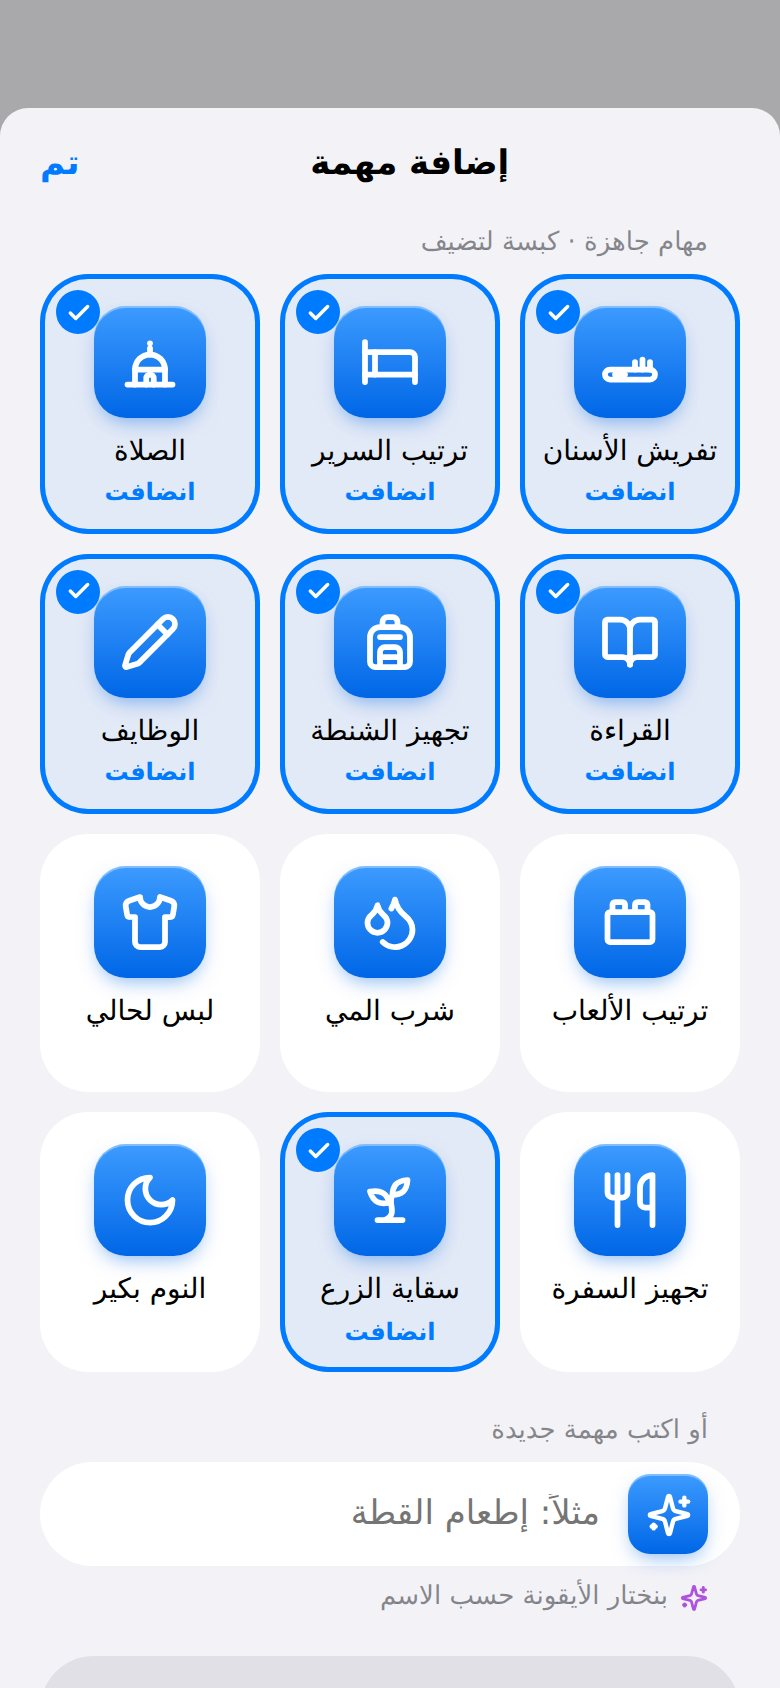
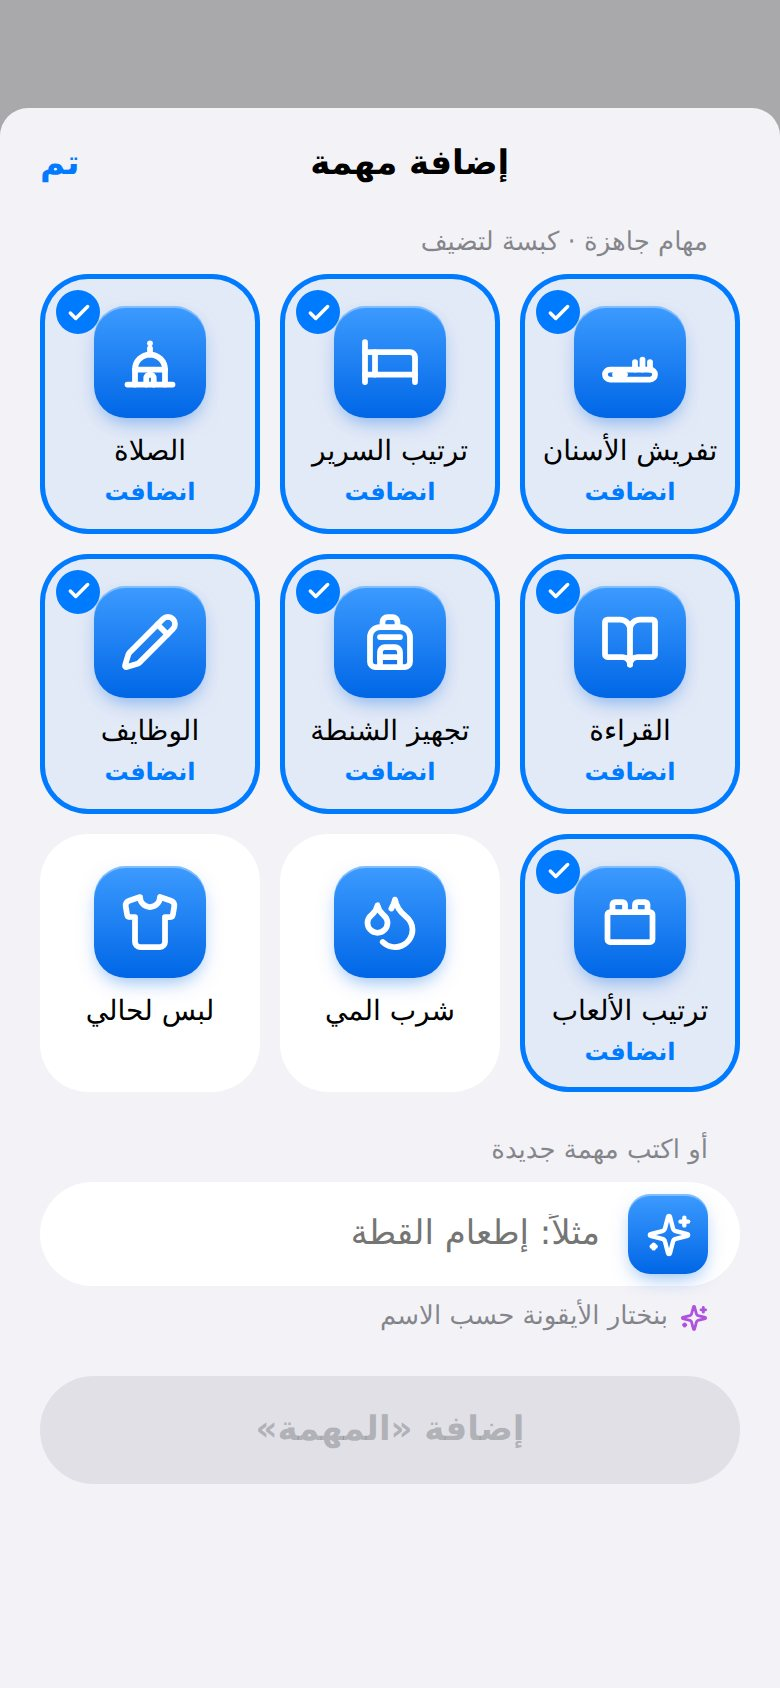
Task setup: reward wording, riyal sign, free-text goal, 9 ready tasks
- 'مكافأة كل مهمة' replaces 'how much is it worth'.
- Currency follows the phone's region, no picker; Saudi riyal shows the
  official new sign (Saudi-Riyal-Font, OFL).
- The goal screen is a single field: write the goal as the child says it,
  the icon is picked from the words, then the amount and estimate.
- The add-task sheet shows at most 9 ready-made tasks so writing a new
  one stays in view.
- docs/screens and DESIGN.md updated.

Claude-Session: https://claude.ai/code/session_01RDAVNZzgeCwRhwwmPPkyYB

diff --git a/prototype/screens/02-tasks-setup.html b/prototype/screens/02-tasks-setup.html
@@ -171,6 +171,10 @@ input::-webkit-outer-spin-button,input::-webkit-inner-spin-button{-webkit-appear
 .namerow{margin-top:14px;background:#fff;border-radius:26px;display:flex;align-items:center;padding:0 16px;min-height:52px}
 .namerow label{width:80px;font-size:17px}
 .namerow .glyph{margin-inline-start:10px}
+.goalfield{margin-top:24px;gap:12px}
+.goalfield .glyph{margin:0}
+.riyal{width:.95em;height:.95em;vertical-align:-.12em;display:inline-block}
+.bigsym .riyal{width:26px;height:26px;vertical-align:-3px}
 .autonote{font-size:13px;color:var(--label-2);padding:8px 16px 0;display:flex;align-items:center;gap:6px}
 .autonote svg{width:14px;height:14px;color:var(--purple,#AF52DE)}
 .namerow input{flex:1;height:52px;border:0;outline:none;background:none;font:17px var(--font)}
@@ -428,10 +432,13 @@ const CURRENCIES=[
   {c:'CAD',n:'دولار كندي',s:'C$'},{c:'AUD',n:'دولار أسترالي',s:'A$'},{c:'CHF',n:'فرنك سويسري',s:'CHF'},
   {c:'SEK',n:'كرونة سويدية',s:'kr'},{c:'MYR',n:'رينغيت ماليزي',s:'RM'},{c:'PKR',n:'روبية باكستانية',s:'₨'},{c:'INR',n:'روبية هندية',s:'₹'},
 ];
-let currency='SAR';   // in the app: from the device region (Locale.current.currency), changeable here and in Settings
+let currency='SAR';   // from the device region (Locale.current.currency); no picker needed
 const CUR=()=>CURRENCIES.find(x=>x.c===currency);
 const fmt=n=>(Math.round(n*100)/100).toString();
-const money=(n,cls='')=>`<span class="money ${cls}">${fmt(n)} <span class="sym">${esc(CUR().s)}</span></span>`;
+/* official Saudi riyal sign (Saudi-Riyal-Font, SIL OFL 1.1) */
+const RIYAL=`<svg class="riyal" viewBox="0 0 1256 1256" aria-label="ريال" role="img"><path fill="currentColor" d="M0,0M750,1119 C730,1163,716,1211,711,1262 C711,1262,1136,1172,1136,1172 C1156,1127,1169,1079,1174,1028 C1174,1028,750,1119,750,1119Z M1136,901 C1136,901,1136,901,1136,901 C1156,857,1169,809,1174,758 C1174,758,843,828,843,828 C843,828,843,693,843,693 C843,693,1136,631,1136,631 C1156,587,1169,538,1174,488 C1174,488,843,558,843,558 C843,558,843,72,843,72 C793,100,748,138,711,183 C711,183,711,586,711,586 C711,586,579,614,579,614 C579,614,579,6,579,6 C528,34,483,72,447,117 C447,117,447,642,447,642 C447,642,151,705,151,705 C131,750,117,798,112,849 C112,849,447,777,447,777 C447,777,447,948,447,948 C447,948,88,1024,88,1024 C68,1068,55,1117,50,1167 C50,1167,425,1088,425,1088 C456,1081,482,1063,499,1038 C499,1038,568,936,568,936 C568,936,568,936,568,936 C575,926,579,913,579,899 C579,899,579,749,579,749 C579,749,711,721,711,721 C711,721,711,992,711,992 C711,992,1136,901,1136,901Z "/></svg>`;
+const SYM=()=>currency==='SAR'?RIYAL:esc(CUR().s);
+const money=(n,cls='')=>`<span class="money ${cls}">${fmt(n)} <span class="sym">${SYM()}</span></span>`;
 const DAYS=['سبت','أحد','اثنين','ثلاثاء','أربعاء','خميس','جمعة'];
 const SCHOOL=[1,1,1,1,1,0,0].map(Boolean), EVERY=Array(7).fill(true);
 
@@ -471,29 +478,26 @@ function tasksScreen(i){
 function valuesScreen(i){
   const k=kids[i];
   return `${nav(i)}
-    <h1>كل مهمة قديش بتسوى؟</h1>
+    <h1>مكافأة كل مهمة</h1>
     <div class="sub">هاد المبلغ بينزل بمكمورة ${esc(k.name)} لما توافق على المهمة.</div>
-    <button class="curchip" data-currency><span>العملة</span><b>${esc(CUR().n)}</b><span class="cs">${esc(CUR().s)}</span>${ic('chev',2.6)}</button>
     <div class="group">${k.tasks.map((t,n)=>`<div class="row">${glyph(t.icon,t.c,'sm')}
       <button class="t" data-days="${n}" style="text-align:start"><b>${esc(t.name)}</b><span>${daysLabel(t.days)}</span></button>
-      <span class="stepper"><button data-val="${n}" data-d="-1" aria-label="أقل">${ic('minus',2.6)}</button><span class="v"><input type="number" inputmode="decimal" min="0" max="9999" step="any" value="${fmt(t.value)}" data-valin="${n}" aria-label="قيمة ${esc(t.name)}"><span class="sym">${esc(CUR().s)}</span></span><button data-val="${n}" data-d="1" aria-label="أكتر">${ic('plus',2.6)}</button></span></div>`).join('')}</div>
-    <div class="total">بيقدر يجمع لحد <b><span id="perday">${fmt(perDay(k))}</span> ${esc(CUR().s)}</b> باليوم</div>
+      <span class="stepper"><button data-val="${n}" data-d="-1" aria-label="أقل">${ic('minus',2.6)}</button><span class="v"><input type="number" inputmode="decimal" min="0" max="9999" step="any" value="${fmt(t.value)}" data-valin="${n}" aria-label="قيمة ${esc(t.name)}"><span class="sym">${SYM()}</span></span><button data-val="${n}" data-d="1" aria-label="أكتر">${ic('plus',2.6)}</button></span></div>`).join('')}</div>
+    <div class="total">بيقدر يجمع لحد <b><span id="perday">${fmt(perDay(k))}</span> ${SYM()}</b> باليوم</div>
     <div class="bottom"><button class="btn filled" data-next>التالي</button></div>`;
 }
 function goalScreen(i){
   const k=kids[i], g=k.goal;
   return `${nav(i)}
-    <h1>شو بيحلم ${esc(k.name)}؟</h1>
-    <div class="sub">هدف يجمعله. اسأله، وخلّيه يختار معك.</div>
-    <div class="goals">${GOALS.map(o=>`<button class="pick" aria-pressed="${g&&g.id===o.id}" data-goal="${o.id}"><span class="ok">${ic('check',3.2)}</span>${glyph(o.icon,o.c)}${o.name}</button>`).join('')}
-      <button class="pick new" aria-pressed="${g&&g.id==='custom'}" data-goal="custom"><span class="ok">${ic('check',3.2)}</span>${glyph('plus',C.blue)}شي تاني</button></div>
-    ${g?`<div class="namerow"><label for="gname">الهدف</label><input id="gname" value="${esc(g.name)}" placeholder="مثلاً: بلاي ستيشن" data-gname autocomplete="off"><span id="gicon">${glyph(g.icon,g.c,'sm')}</span></div>
-      ${g.id==='custom'?`<div class="autonote">${ic('sparkles')}بنختار الأيقونة حسب الاسم</div>`:''}
-      <div class="amount"><span class="lbl">بيحتاج يجمع</span>
-        <div class="big"><button data-amt="-10" aria-label="أقل">${ic('minus',2.6)}</button><span class="n"><input type="number" inputmode="decimal" min="1" max="999999" step="any" value="${fmt(g.amount)}" id="gamount" aria-label="قديش بيحتاج"><span class="bigsym">${esc(CUR().s)}</span></span><button data-amt="10" aria-label="أكتر">${ic('plus',2.6)}</button></div>
+    <h1>هدف ${esc(k.name)}</h1>
+    <div class="sub">شي بيطمح يوصله. اكتبه متل ما بيحكيه ${esc(k.name)}.</div>
+    <div class="namerow goalfield"><span id="gicon">${glyph(g?g.icon:'gift',TASK,'sm')}</span><input id="gname" value="${esc(g?g.name:'')}" placeholder="مثلاً: بلاي ستيشن، دراجة، رحلة…" data-gname autocomplete="off"></div>
+    <div class="autonote">${ic('sparkles')}بنختار الأيقونة حسب الاسم</div>
+    ${g&&g.name.trim()?`<div class="amount"><span class="lbl">بيحتاج يجمع</span>
+        <div class="big"><button data-amt="-10" aria-label="أقل">${ic('minus',2.6)}</button><span class="n"><input type="number" inputmode="decimal" min="1" max="999999" step="any" value="${fmt(g.amount)}" id="gamount" aria-label="قديش بيحتاج"><span class="bigsym">${SYM()}</span></span><button data-amt="10" aria-label="أكتر">${ic('plus',2.6)}</button></div>
         <span class="eta" id="eta">${etaText(k)}</span></div>`:''}
-    <div class="bottom"><button class="btn filled" data-next ${g&&!g.name.trim()?'disabled':''}>${!g?'تخطّى هلأ':i<kids.length-1?`التالي: ${esc(kids[i+1].name)}`:'خلصنا'}</button>
-      ${g?'':'<div class="hint">فيك تحدده بعدين مع '+esc(k.name)+'</div>'}</div>`;
+    <div class="bottom"><button class="btn filled" data-next>${!(g&&g.name.trim())?'تخطّى هلأ':i<kids.length-1?`التالي: ${esc(kids[i+1].name)}`:'خلصنا'}</button>
+      ${g&&g.name.trim()?'':'<div class="hint">فيك تحدده بعدين مع '+esc(k.name)+'</div>'}</div>`;
 }
 function etaText(k){ const d=Math.ceil(k.goal.amount/Math.max(1,perDay(k))); return perDay(k)?`إذا خلّص كل مهامه، بيوصل خلال <b>${d} ${d>2&&d<11?'أيام':'يوم'}</b> تقريباً`:'ما في مهام عليها نقاط لسا'; }
 function readyScreen(){
@@ -505,8 +509,8 @@ function readyScreen(){
       <header>${kav(k,'big')}<div class="hn"><b>${esc(k.name)}</b><span>${k.age} ${k.age>10?'سنة':'سنين'} · ${k.tasks.length} مهام باليوم</span></div>
         ${approved?`<span class="ok-badge">${ic('check',3)}معتمد</span>`:`<button class="edit" data-edit="${kids.indexOf(k)}">تعديل</button>`}</header>
       <ul>${k.tasks.map(t=>`<li>${glyph(t.icon,t.c,'sm')}<span class="tn">${esc(t.name)}</span><span class="pts">${money(t.value)}</span></li>`).join('')}</ul>
-      ${k.goal?`<div class="dream">${glyph(k.goal.icon,k.goal.c,'sm')}<div><b>بيحلم بـ${esc(k.goal.name||'هدفه')}</b><span>${fmt(k.goal.amount)} ${esc(CUR().s)} · تقريباً ${d} ${d>2&&d<11?'أيام':'يوم'}</span></div></div>`
-        :`<div class="dream muted"><div><b>لسا ما في حلم</b><span>حدّدوه سوا من الصفحة الرئيسية</span></div></div>`}
+      ${k.goal?`<div class="dream">${glyph(k.goal.icon,k.goal.c,'sm')}<div><b>هدفه: ${esc(k.goal.name||'')}</b><span>${fmt(k.goal.amount)} ${SYM()} · تقريباً ${d} ${d>2&&d<11?'أيام':'يوم'}</span></div></div>`
+        :`<div class="dream muted"><div><b>لسا ما في هدف</b><span>حدّدوه سوا من الصفحة الرئيسية</span></div></div>`}
     </article>`}).join('')}
     <div class="bottom">${approved?`<button class="btn filled">للصفحة الرئيسية</button>`:`<button class="btn filled" data-approve>اعتماد المهام</button><div class="hint">بتقدر تعدّل أي شي بعدين من الإعدادات</div>`}</div>`;
 }
@@ -523,9 +527,9 @@ function previewScreen(){
     ${kids.length>1?`<div class="kidseg">${kids.map((x,n)=>`<button aria-pressed="${n===pk}" data-pk="${n}">${kav(x)}${esc(x.name)}</button>`).join('')}</div>`:''}
     <div class="kidphone">
       <div class="kp-head">${kav(k,'big')}<div><span>صباح الخير</span><b>${esc(k.name)}</b></div></div>
-      ${g?`<div class="kp-dream"><div class="kp-dt">${glyph(g.icon,g.c,'sm')}<div><span>حلمي</span><b>${esc(g.name)}</b></div></div>
+      ${g?`<div class="kp-dream"><div class="kp-dt">${glyph(g.icon,g.c,'sm')}<div><span>هدفي</span><b>${esc(g.name)}</b></div></div>
         <div class="kp-bar"><i style="--w:${pct*100}%"></i></div>
-        <div class="kp-note">إذا خلّص كل مهامه، بعد أسبوع بيكون عنده <b>${fmt(week)} ${esc(CUR().s)}</b> من ${fmt(g.amount)}</div></div>`:''}
+        <div class="kp-note">إذا خلّص كل مهامه، بعد أسبوع بيكون عنده <b>${fmt(week)} ${SYM()}</b> من ${fmt(g.amount)} ${SYM()}</div></div>`:''}
       <div class="kp-tl">مهامي اليوم</div>
       <div class="kp-tasks">${k.tasks.slice(0,6).map((t,n)=>`<div class="kp-t ${n===0?'done':''}">${n===0?`<span class="kp-ok">${ic('check',3.2)}</span>`:''}${glyph(t.icon,t.c)}<span>${esc(t.name)}</span></div>`).join('')}</div>
     </div>
@@ -598,7 +602,7 @@ function closeSheet(){ const s=$('#sheets .sheet'); $('#scrim').classList.remove
 let draft=null, lastAdded=null;
 function addSheet(){
   const k=kids[FLOW[at][1]], d=draft, have=new Set(k.tasks.map(t=>t.id));
-  const lib=[...SUGGEST,...k.custom];
+  const lib=[...k.tasks.filter(t=>SUGGEST.some(x=>x.id===t.id)), ...SUGGEST.filter(x=>!have.has(x.id))].slice(0,9);   // 9 at most
   openSheet(`<div class="ksbar"><span></span><b>إضافة مهمة</b><button class="done" data-close>تم</button></div>
     <div class="slabel" style="margin-top:4px">مهام جاهزة · كبسة لتضيف</div>
     <div class="grid lib">${lib.map(t=>{const on=have.has(t.id);return `<button class="pick ${lastAdded===t.id?'justadded':''}" aria-pressed="${on}" data-libadd="${t.id}"><span class="ok">${ic('check',3.2)}</span>${glyph(t.icon,t.c)}${esc(t.name)}<span class="state">${on?'انضافت':'&nbsp;'}</span></button>`}).join('')}</div>
@@ -666,9 +670,9 @@ document.addEventListener('input',e=>{
   if(el.id==='tname'){ draft.name=el.value; draft.icon=taskIconFor(el.value); const tg=$('#tglyph'); if(tg) tg.innerHTML=ic(draft.icon,2.3); const b=document.querySelector('[data-addtask]'); if(b){ b.disabled=!draft.name.trim(); b.textContent=`إضافة «${draft.name.trim()||'المهمة'}»` } }
   if(el.id==='csearch'){ currencySheet(el.value); return }
   if(el.dataset.valin!=null){ const v=parseFloat(el.value); k.tasks[+el.dataset.valin].value=isNaN(v)?0:Math.max(0,Math.min(9999,v)); $('#perday').textContent=fmt(perDay(k)) }
-  if(el.dataset.gname!=null){ k.goal.name=el.value;
-    if(k.goal.id==='custom'){ Object.assign(k.goal,iconFor(el.value)); $('#gicon').innerHTML=glyph(k.goal.icon,k.goal.c,'sm') }
-    const nb=document.querySelector('[data-next]'); if(nb) nb.disabled=!el.value.trim() }
+  if(el.dataset.gname!=null){ const had=!!(k.goal&&k.goal.name.trim()); if(!k.goal) k.goal={id:'custom',name:'',icon:'gift',c:GOAL,amount:100}; k.goal.name=el.value;
+    Object.assign(k.goal,iconFor(el.value),{c:TASK}); $('#gicon').innerHTML=glyph(k.goal.icon,TASK,'sm');
+    if(had!==!!el.value.trim()){ refresh(); const f=$('#gname'); f.focus(); f.setSelectionRange(f.value.length,f.value.length) } }
   if(el.id==='gamount'){ const v=parseFloat(el.value); k.goal.amount=isNaN(v)||v<=0?1:Math.min(999999,v); $('#eta').innerHTML=etaText(k) }
 });
 /* clean up a typed number when leaving the field */

diff --git a/DESIGN.md b/DESIGN.md
@@ -14,9 +14,10 @@ The product follows native iOS design so it feels like an Apple app. The live re
 - **Controls (iOS 26 style):** capsule buttons, frosted-glass secondary buttons, a round glass back button, grouped lists with 26px corners, and the system sheets (Sign in with Apple, App Store).
 - **App icon:** a blue rounded square with a white jar and a blue star inside: the jar the child fills, the star the dream (`prototype/app-icon.svg`).
 - **People:** children and parents appear by photo; until a family adds photos, 3D avatars stand in.
-- **Flow (value before price):** Welcome → Account (Apple, Google, email) → About you → Children → Task setup per child (tasks, amounts in the family currency, dream) → All set (edit / approve) → Child preview ("this is what Salim sees tomorrow") → Free trial → App Store → Trial started (optional invite for the other parent).
+- **Flow (value before price):** Welcome → Account (Apple, Google, email) → About you → Children → Task setup per child (tasks, reward per task, goal) → All set (edit / approve) → Child preview ("this is what Salim sees tomorrow") → Free trial → App Store → Trial started (optional invite for the other parent).
 - **Deferred on purpose:** the parent passcode is asked at the first approval (with Face ID); inviting the other parent is offered after the trial starts.
-- **Money:** task values and dreams are real amounts in one family currency, preset from the device region (most used first: USD, SAR, AED, QAR, KWD, EUR, JOD, EGP, TRY). The app keeps a ledger; parents pay children themselves.
+- **Money:** task rewards and goals are real amounts in the currency of the phone's region, with no picker. Saudi riyal uses the official new sign. The app keeps a ledger; parents pay children themselves. No fixed allowance in v1: every riyal comes from a task.
+- **Wording:** "مكافأة كل مهمة" (not "how much is it worth"); "هدف سليم" (something he aims for), written freely, icon picked from the words.
 
 ## Principles
 

diff --git a/prototype/THIRD_PARTY_NOTICES.md b/prototype/THIRD_PARTY_NOTICES.md
@@ -51,3 +51,7 @@ OR IN CONNECTION WITH THE USE OR PERFORMANCE OF THIS SOFTWARE.
 ## Avatars
 
 `photos/` holds Microsoft Fluent Emoji 3D people (boy, child, girl, man, woman; medium skin tone), MIT licence as above. They stand in for real family photos.
+
+## Saudi Riyal sign
+
+The riyal sign in `screens/02-tasks-setup.html` is the glyph from Saudi-Riyal-Font by Emran Alhaddad (npm `@emran-alhaddad/saudi-riyal-font` 1.1.0), SIL Open Font License 1.1.
